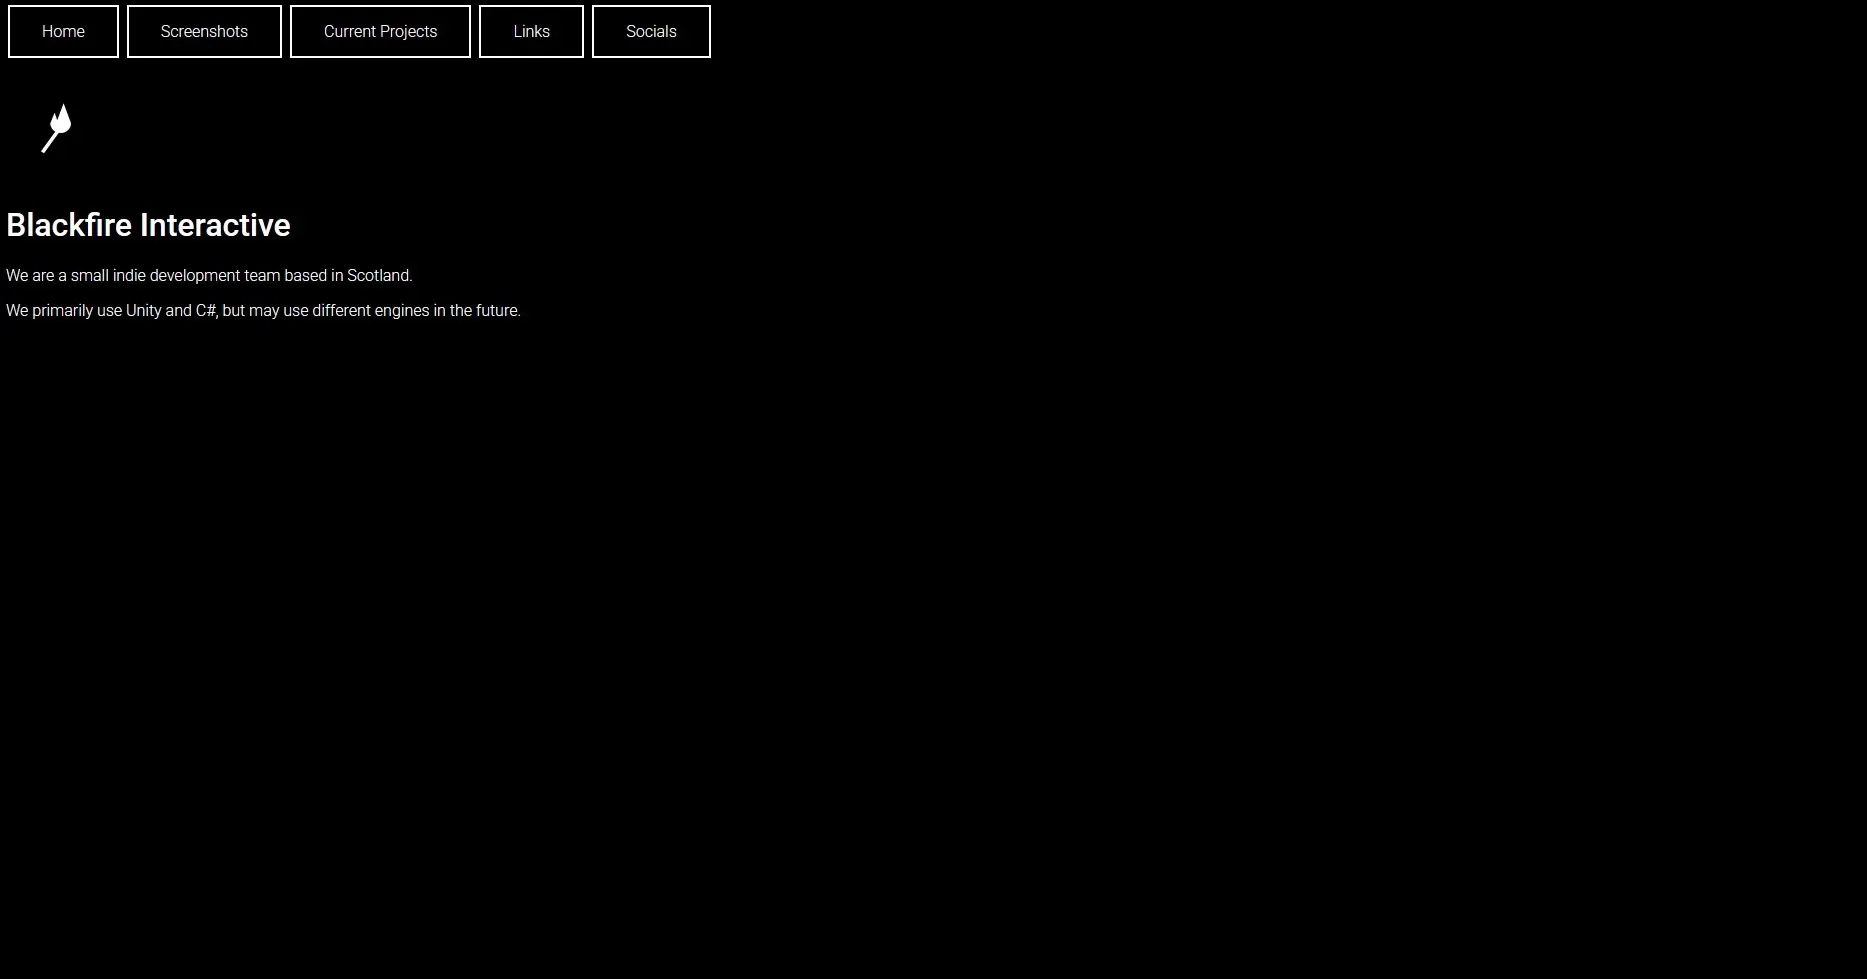
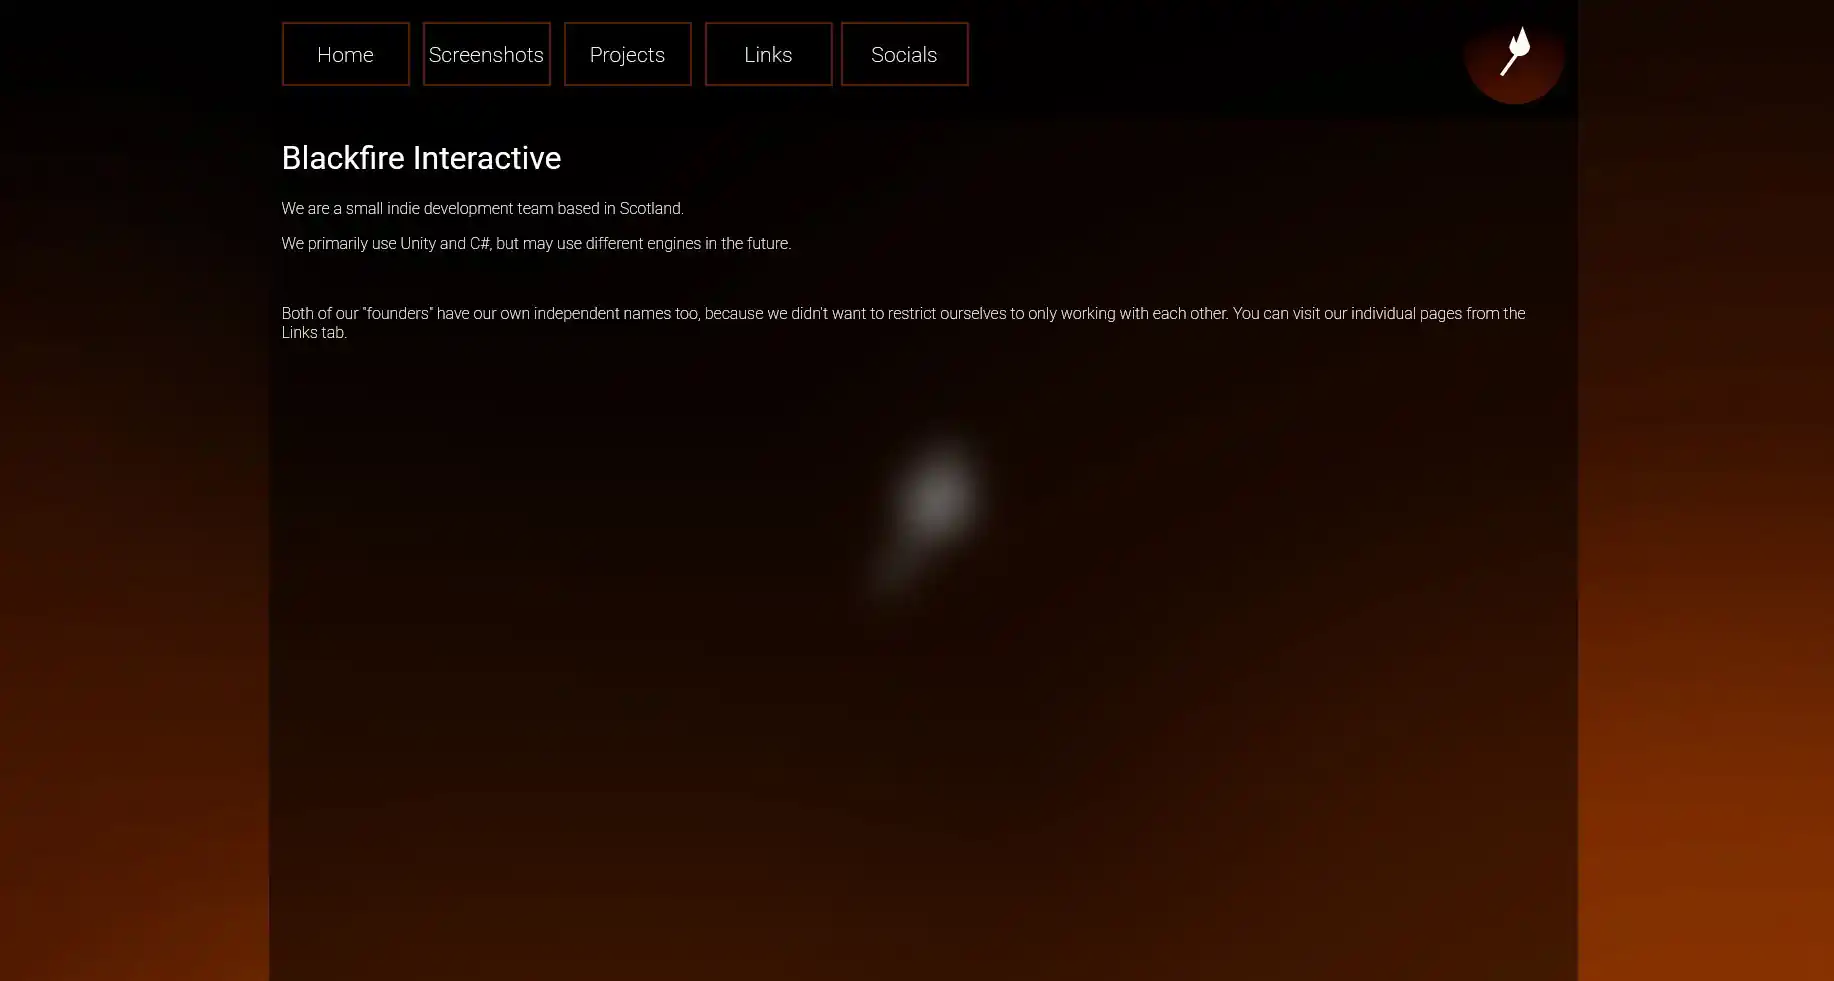
Update 'old browser' message and BFI screenshot

diff --git a/index.html b/index.html
@@ -41,7 +41,7 @@
 
             <!-- What are you doing on IE11 you psycho?? -->
             <div class="no-support">
-                <h1> Using an archaic browser? You're out of luck but there will be a compatibility version of the site eventually. </h1>
+                <h1> Using an archaic browser? Click on the "Legacy" link on the right side. </h1>
             </div>
 
             <!-- Page content (The important bit!) -->
@@ -51,7 +51,7 @@
                 <h2 style="margin-bottom: 0;"> BLACK INK GAMES </h2>
                 <p class="grey-p"> [email redacted] </p>
                 <p class="grey-p"> Developer </p>
-                <p> This website is NEW! Enjoy the STUNNING visuals that I didn't design, based on my personal favourite Windows design scheme. </p>
+                <p> Indie game development in Unity. </p>
             </div>
 
             <!-- The sidebar. -->

diff --git a/Blackfire-Interactive/index.html b/Blackfire-Interactive/index.html
@@ -41,7 +41,7 @@
 
             <!-- What are you doing on IE11 you psycho?? -->
             <div class="no-support">
-                <h1> Using an archaic browser? You're out of luck but there will be a compatibility version of the site eventually. </h1>
+                <h1> Using an archaic browser? Click on the "Legacy" link on the home page. </h1>
             </div>
 
             <!-- Page content (The important bit!) -->

diff --git a/Gamejolt/index.html b/Gamejolt/index.html
@@ -41,7 +41,7 @@
 
             <!-- What are you doing on IE11 you psycho?? -->
             <div class="no-support">
-                <h1> Using an archaic browser? You're out of luck but there will be a compatibility version of the site eventually. </h1>
+                <h1> Using an archaic browser? Click on the "Legacy" link on the home page. </h1>
             </div>
 
             <!-- Page content (The important bit!) -->

diff --git a/Projects/index.html b/Projects/index.html
@@ -41,7 +41,7 @@
 
             <!-- What are you doing on IE11 you psycho?? -->
             <div class="no-support">
-                <h1> Using an archaic browser? You're out of luck but there will be a compatibility version of the site eventually. </h1>
+                <h1> Using an archaic browser? Click on the "Legacy" link on the home page. </h1>
             </div>
 
             <!-- Page content (The important bit!) -->

diff --git a/Social/index.html b/Social/index.html
@@ -41,7 +41,7 @@
 
             <!-- What are you doing on IE11 you psycho?? -->
             <div class="no-support">
-                <h1> Using an archaic browser? You're out of luck but there will be a compatibility version of the site eventually. </h1>
+                <h1> Using an archaic browser? Click on the "Legacy" link on the home page. </h1>
             </div>
 
             <!-- Page content (The important bit!) -->

diff --git a/itch/index.html b/itch/index.html
@@ -41,7 +41,7 @@
 
             <!-- What are you doing on IE11 you psycho?? -->
             <div class="no-support">
-                <h1> Using an archaic browser? You're out of luck but there will be a compatibility version of the site eventually. </h1>
+                <h1> Using an archaic browser? Click on the "Legacy" link on the home page. </h1>
             </div>
 
             <!-- Page content (The important bit!) -->